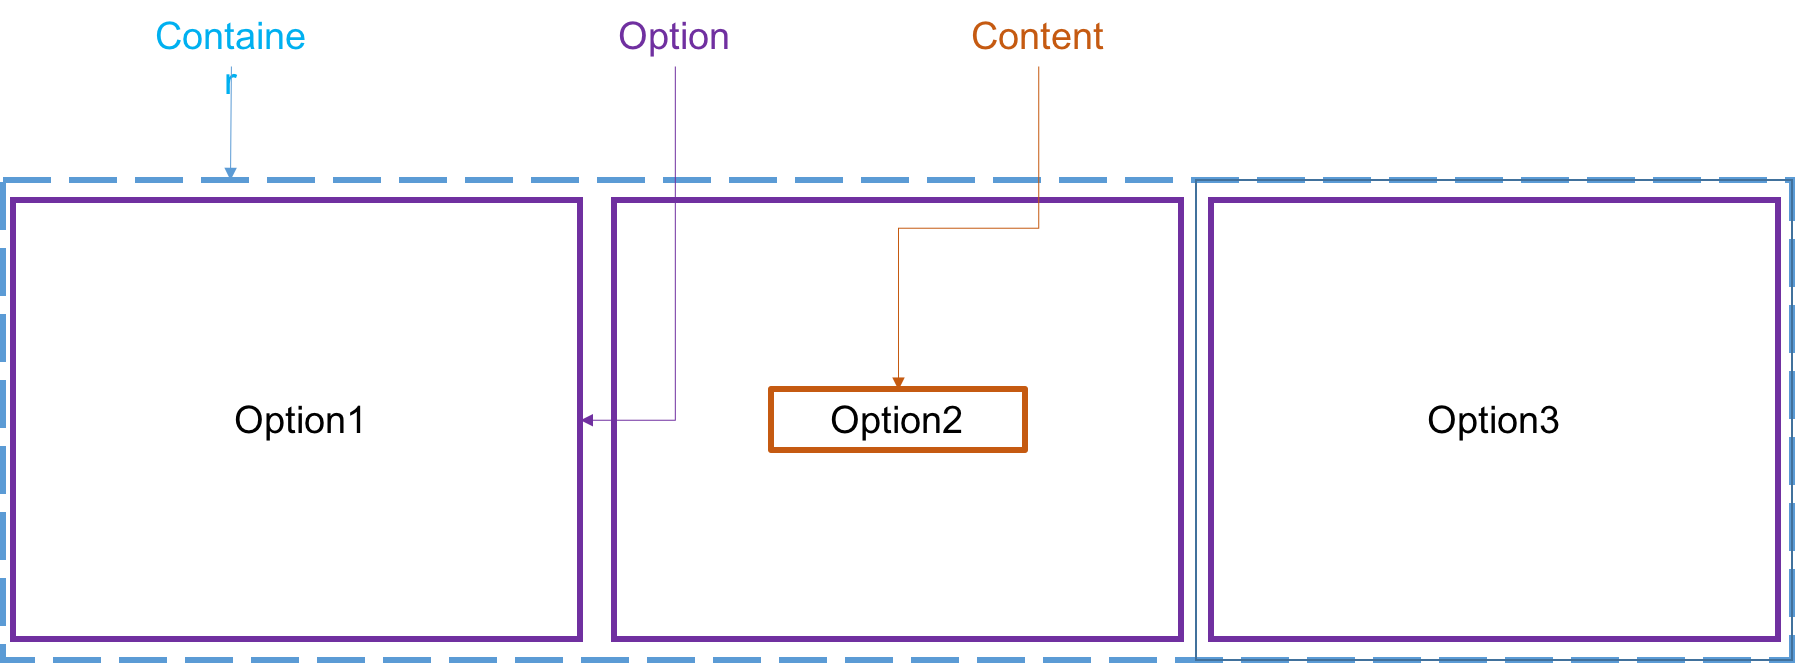
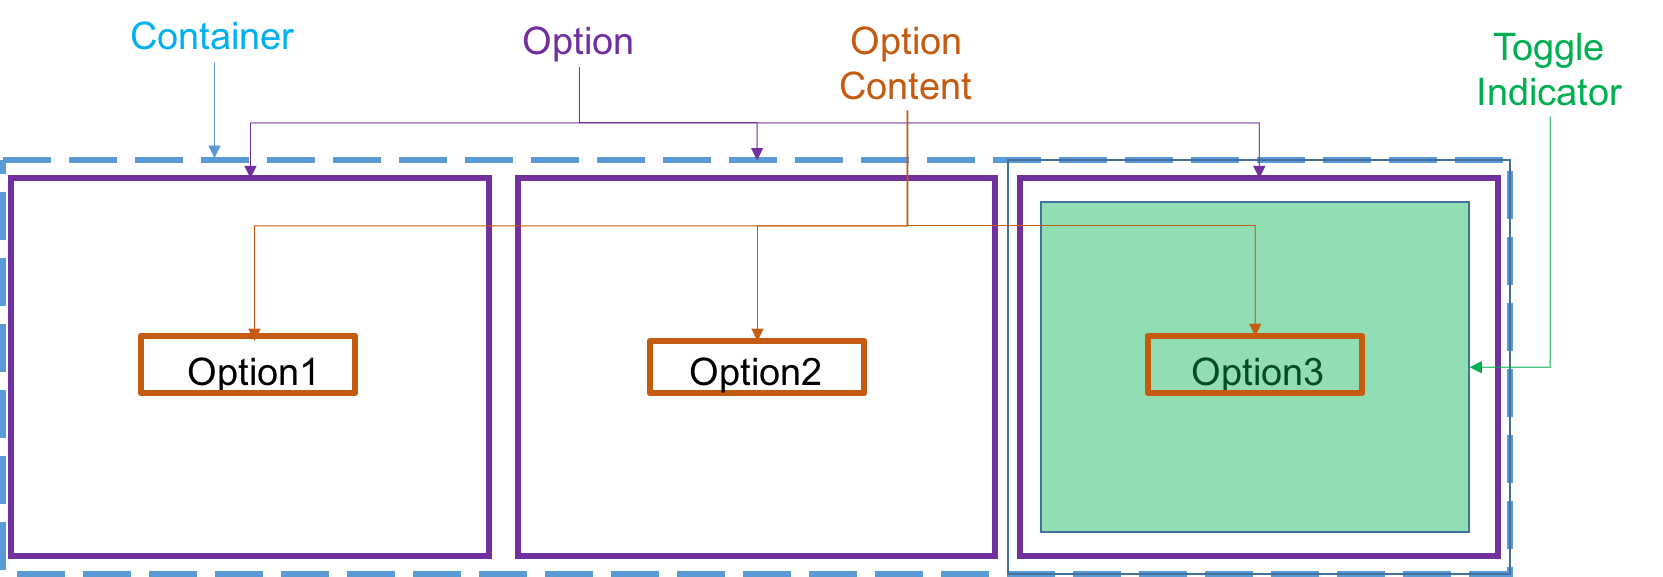
wip

diff --git a/packages/wix-ui-core/src/components/segmented-toggle/README.md b/packages/wix-ui-core/src/components/segmented-toggle/README.md
@@ -1,10 +1,7 @@
-**Table of Contents**
+# Segmented Toggle
   
 ### TBD
-* component name - segmented control?
-* error prop & style????
 * callback structure
-* selection indicator + animation
 * rtl and how to pass it
 
 ## Description
@@ -17,7 +14,7 @@
 
 ### Elements
 
-This component consists of **container** which is the root of the component and **option** which holds each of the selection options content (children)
+This component consists of **container** which is the root of the component, **option** which holds each of the selection options content (children) and **toggle-indicator** that indicates the selected option and shows toggle animation
 
 ![image](./readme-assets/segmented-toggle-elements.png)
 
@@ -27,24 +24,24 @@ This component consists of **container** which is the root of the component and 
 
 | name            | type                                                     | defaultValue | isRequired | description                                                                                 |
 |:----------------|:---------------------------------------------------------|:-------------|:-----------|:--------------------------------------------------------------------------------------------|
-| value           | string                                                   |              |            | sets the selected option of the group. should match the `value` prop of one of the children |
-| onChange        | (event: React.ChangeEvent<React.SyntheticEvent>) => null | () => {}     |            | event to call when selection change                                                         |
+| value           | string                                                   |             |            | sets the selected option of the group. Should match the `value` prop of one of the children |
+| onChange        | (value: string, event: React.ChangeEvent<React.SyntheticEvent>) => null | () => {}     |            | event to call when selection change                                                         |
 | disabled        | boolean                                                  | false        |            | disables all functionality of the component AND toggles non-functional visual state         |
+| hideToggleIndicator        | boolean                                                  | false        |            | setting `true` will remove the toggle indicator element         |
 | readOnly        | boolean                                                  | false        |            | disables all functionality of the component WITHOUT toggling non-functional visual state    |
-| required????        | boolean                                                  | false        |            | when true, a user cannot submit a form when this component has no selected option           |
 | rtl????        | boolean                                                  | false        |            | when true, the rendering order of the options change from left-to-right to right-to-left           |
-| children        | Component<IToggleableOption>                             |              |            | The options to render.                                                                      |
+| children        | Component< IToggleableOption >                             |              |            | The options to render.                                                                      |
 | ariaLabelledby | string                                                   | false        |            | accessibility feature to provide additional description for screen readers                  |
 
 **IToggleableOption Props**
-Children of the **SegmentedToggle** component are expected to implement this interface in order for the component to function as expected:
+<br>Children of the **SegmentedToggle** component are expected to implement this interface in order for the component to function as expected:
 
 | name     | type                                                     | defaultValue | isRequired | description                                                      |
 |:---------|:---------------------------------------------------------|:-------------|:-----------|:-----------------------------------------------------------------|
 | value    | string                                                   | true         |            | sets the value of the specific option. Must be unique            |
 | checked  | boolean                                                  | false        |            | indicates that the option should be shown as selected            |
 | disabled | boolean                                                  | false        |            | indicates this option is non selectable and toggles visual state |
-| onChange | (event: React.ChangeEvent<React.SyntheticEvent>) => null | () => {}     |            | event to call when selection change                              |
+| onChange | (value: string, event: React.ChangeEvent<React.SyntheticEvent>) => null | () => {}     |            | event to call when selection change                              |
 | children | ReactNode                                                | false        |            | The content to render.                                           |
 
 
@@ -174,7 +171,6 @@ Since **SegmentedToggle** is merely rendering options, most states relate to `op
 
 | State         | Description                            | Link to design |
 |:--------------|:---------------------------------------|:---------------|
-| default       | Default component appearance           |                |
 | selected      | selected option                        |                |
 | disabled      | disabled option                        |                |
 | hover         | when hovering over option              |                |
@@ -203,11 +199,11 @@ selected option should have `aria-checked=“true”`. all other options should 
 
 
 ### Behavior
-**SegmentedToggle** should be viewed as a replacement to a radio group in all aspects and should mimic its "native" counterpart (meaning a group of `<input type="radio" name="..."/>`) behavior.
+**SegmentedToggle** mostly mimics native radio group (meaning a group of `<input type="radio" name="..."/>`) in behavior. Unlike native radio group, this type of selector must always start with an option selected. `value` property is required to force it, and if it matches none of its the children `value` properties the first option is selected.
 
 
 #### Validation 
-Aside from supplying a simplified usage with `<SimpleToggleOption>` this component doesn't validate that children conform to the required interface. This can lead to unexpected behaviors 
+Aside from supplying a simplified usage with `<SimpleToggleOption>` this component doesn't validate that children conform to the required interface. This can lead to unexpected behaviors when using custom option component.  `<SimpleToggleOption>` should suffice most use cases so using it is recommended.
 
 #### Edge case handling
 
